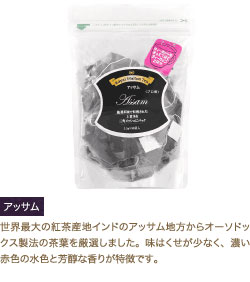
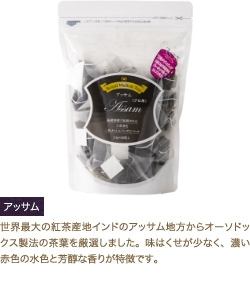
20220117 modified

Changed region(s): [[0.252, 0.0, 0.784, 0.7092], [0.504, 0.0, 0.56, 0.0284]]

diff --git a/royalwalton.html b/royalwalton.html
@@ -129,9 +129,9 @@
 							<div class="specarea"><img src="./assets/img/rw_tri_01_spec.jpg" alt="" name="area8" /></div>
 								<p class="small">▼画像をクリックすると商品の内容が入れ替わります。</p>
 								<ul>
-									<li><a onclick="showimg5()" href="javascript:void(0);"><img src="./assets/img/rw_tri_02_thum.jpg" alt="ロイヤルウォルトン　三角ティーバッグ　ウバ" /></a></li>
-									<li><a onclick="showimg6()" href="javascript:void(0);"><img src="./assets/img/rw_tri_03_thum.jpg" alt="ロイヤルウォルトン　三角ティーバッグ　ダージリン" /></a></li>
-									<li><a onclick="showimg7()" href="javascript:void(0);"><img src="./assets/img/rw_tri_01_thum.jpg" alt="ロイヤルウォルトン　三角ティーバッグ　アッサム" /></a></li>
+									<li><a onclick="showimg5()" href="javascript:void(0);"><img src="./assets/img/rw_tri_01_thum.jpg" alt="ロイヤルウォルトン　三角ティーバッグ　ウバ" /></a></li>
+									<li><a onclick="showimg6()" href="javascript:void(0);"><img src="./assets/img/rw_tri_02_thum.jpg" alt="ロイヤルウォルトン　三角ティーバッグ　ダージリン" /></a></li>
+									<li><a onclick="showimg7()" href="javascript:void(0);"><img src="./assets/img/rw_tri_03_thum.jpg" alt="ロイヤルウォルトン　三角ティーバッグ　アッサム" /></a></li>
 									<li><a onclick="showimg8()" href="javascript:void(0);"><img src="./assets/img/rw_tri_04_thum.jpg" alt="ロイヤルウォルトン　三角ティーバッグ　アールグレイ" /></a></li>
 								</ul>
 							</div>

diff --git a/regentgarden.html b/regentgarden.html
@@ -207,7 +207,7 @@
 							<div class="catarog_img"><img src="./assets/img/rg_sb_01_photo.jpg" alt="" name="area7" vspace="25" /></div>
 							<div class="catarog_spec">
 								<h3><img src="./assets/img/rg_sb_name.jpg" alt="リージェントガーデンスペシャリーブレンドリーフ" /></h3>
-								<p class="px10">リーフティーの愛飲層に味と香りにこだわったプレミアム品質で、 ご家庭で気軽にお飲みいただける簡易パック価格もお手頃です。</p>
+								<p class="px10">リーフティーの愛飲層に味と香りにこだわったプレミアム品質で、ご家庭で気軽にお飲みいただける簡易パック、価格もお手頃です。</p>
 								<div class="specarea"><img src="./assets/img/rg_sb_01_spec.jpg" alt="" name="area8" /></div>
 								<p class="small">▼画像をクリックすると商品の内容が入れ替わります。</p>
 								<ul>
